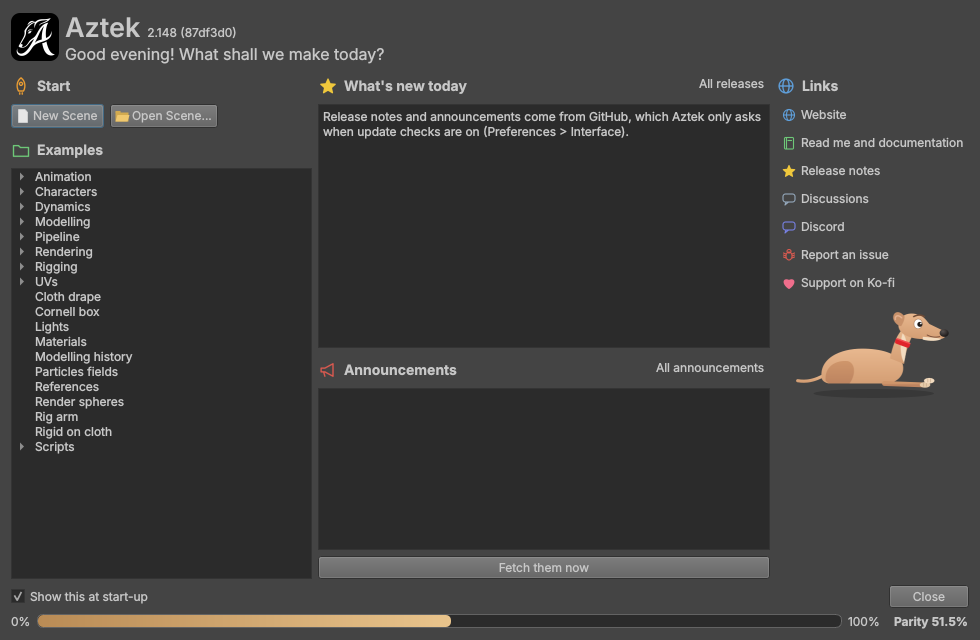
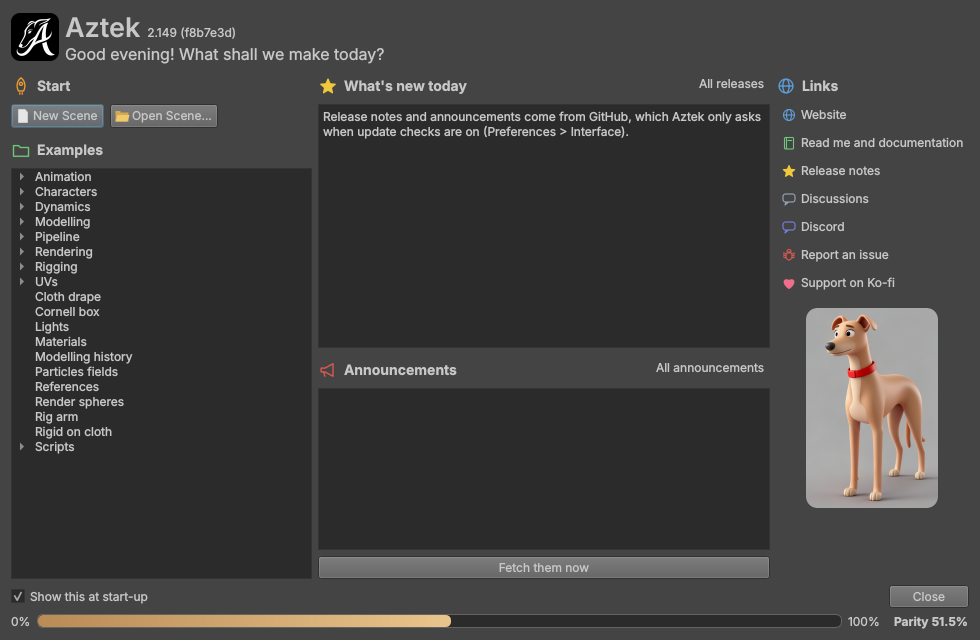
Welcome screen: the greyhound is the character image, the drawn poses removed

Changed region(s): [[0.7959, 0.4688, 0.9796, 0.8125], [0.1837, 0.0312, 0.2449, 0.0625]]

diff --git a/app/src/welcome.cpp b/app/src/welcome.cpp
@@ -1,8 +1,8 @@
 // The welcome screen (#85), as the reference has one at start-up that can be turned off: ways in (a new scene, a scene
 // to open, the recent ones), the example scenes and scripts that come with Aztek, useful links, and from GitHub the
 // notes of the day's releases and the announcements. GitHub is asked only when update checks are on (Preferences >
-// Interface), as nothing leaves the machine otherwise; a button asks once on demand. A greyhound keeps it company,
-// in a new pose with each version, and a bar along the foot shows how far Aztek is towards parity.
+// Interface), as nothing leaves the machine otherwise; a button asks once on demand. A greyhound keeps it company
+// under the links, and a bar along the foot shows how far Aztek is towards parity.
 
 #include "mainwindow.h"
 #include "aztek.h"
@@ -50,9 +50,6 @@ const char* kAnnouncements = "https://srlegrand.github.io/Aztek/announcements.js
 const char* kAnnouncementsPage = "https://github.com/srlegrand/Aztek/discussions/categories/announcements";
 const char* kReleases = "https://github.com/srlegrand/Aztek/releases";
 const char* kReleasesApi = "https://api.github.com/repos/srlegrand/Aztek/releases?per_page=40";
-
-// The greyhound's poses, one a version: 2.N shows pose N mod their number.
-const char* kPoses[] = {"1-stand", "2-sit", "3-bow", "4-run", "5-lie", "6-sleep"};
 
 // N of "2.N (commit)" or "2.N.0".
 int build_number() {
@@ -427,17 +424,14 @@ void MainWindow::show_welcome(bool at_startup) {
     right->addWidget(link_button("Discord", "https://discord.gg/XDEgpWDVKa", d, "chat", QColor(120, 130, 230)));
     right->addWidget(link_button("Report an issue", "https://github.com/srlegrand/Aztek/issues/new/choose", d, "bug", QColor(220, 90, 80)));
     right->addWidget(link_button("Support on Ko-fi", "https://ko-fi.com/turtleface", d, "heart", QColor(240, 110, 140)));
-    // The greyhound, under the links: a new pose with each version.
+    // The greyhound, under the links.
     {
-        const int n = int(sizeof(kPoses) / sizeof(kPoses[0]));
-        const int pose = build_number() % n;
         auto* dog = new QLabel(d);
-        QPixmap dpm(QString(":/greyhound/%1.png").arg(kPoses[pose]));
+        QPixmap dpm(":/greyhound.png");
         if (!dpm.isNull()) {
             dpm.setDevicePixelRatio(2.0);
             dog->setPixmap(dpm);
         }
-        dog->setToolTip(QString("Pose %1 of %2: it changes with every version.").arg(pose + 1).arg(n));
         right->addSpacing(8);
         right->addWidget(dog, 0, Qt::AlignHCenter | Qt::AlignTop);
     }

diff --git a/README.md b/README.md
@@ -639,7 +639,7 @@ In the channel box, click channel names to pick them (Ctrl and Shift add); middl
   Themes box keeps docked panels where they are.
 - Welcome screen at start-up (Help > Welcome Screen): a new or recent scene, the examples, links, the notes of every
   release of the day and the announcements when update checks are on, a parity bar along the foot (the share of the
-  reference's commands and flags Aztek takes, `aztekParity -q`), and a greyhound in a new pose with each version.
+  reference's commands and flags Aztek takes, `aztekParity -q`), and a greyhound under the links.
 
   ![Welcome screen](docs/welcome-screen.png)
 - Modeling Toolkit (Windows > Modeling Editors), docked beside the Attribute Editor: selection types (Ctrl converts,

diff --git a/PARITY.md b/PARITY.md
@@ -1425,8 +1425,7 @@ version marked; on a later day the heading names the date. A bar along the foot 
 command and each flag counting once, a flag only when its command is there. `aztekParity -q` gives the percentage, the
 counts and the missing commands; `cargo run -p aztek_host --example parity` prints it. It measures commands and
 flags, not how closely each behaves. The sections and links carry small icons, the greeting follows the time of day,
-and a sandy greyhound sits in the corner, standing, sitting, bowing, running, lying or asleep: version 2.N takes pose
-N mod 6.
+and a sandy greyhound with a red collar stands under the links.
 
 ### Globals at the top level (17/11/2026, #132)
 
